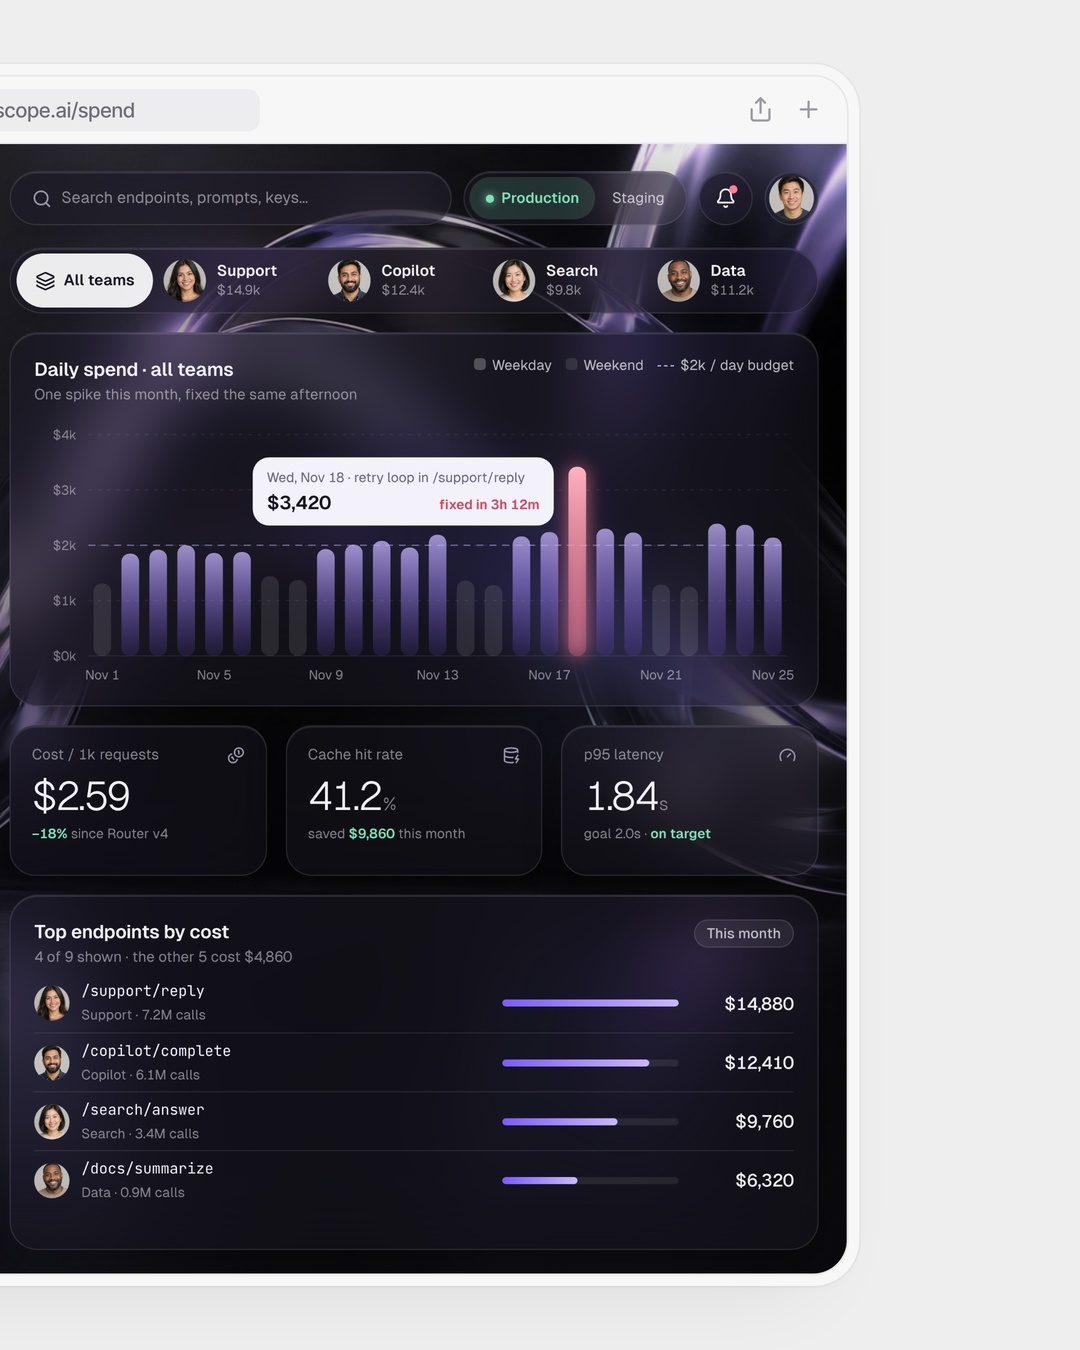
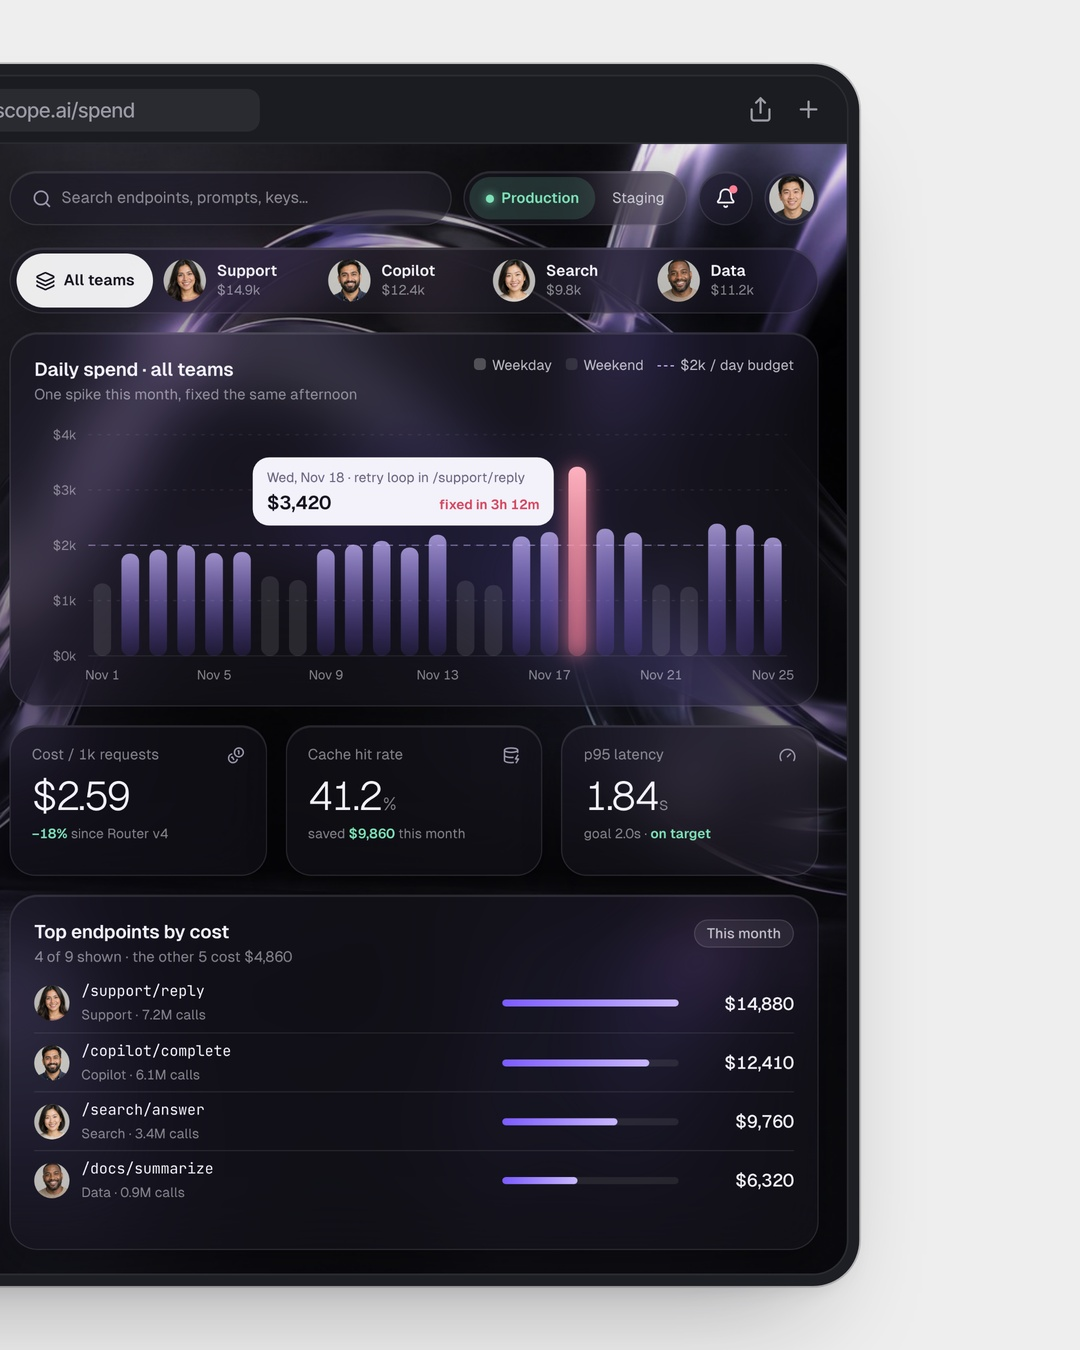
Dark browser mockup on the light studio; re-render the 3 dark dashboards
Claude-Session: https://claude.ai/code/session_01Rx7czzT9PpRg1HyNHJDzdx

Changed region(s): [[0.0, 0.0311, 0.7944, 0.9956]]

diff --git a/tools/render.py b/tools/render.py
@@ -103,6 +103,15 @@ html,body,.stage{background:#101114}
 .bar{background:#1B1C21;border-bottom:1px solid #26272D}
 .url span{background:#25262C;color:#8E8F99}
 """
+# Owner, 2026-11-24: dark browser mockup (window frame + address bar) on the light #EEEEEE studio. FRAME=light restores the old white window.
+DARK_FRAME = _os.environ.get('FRAME', 'dark') == 'dark'
+if DARK_FRAME and not DARK:
+    STAGE_CSS += """
+.frame{background:#1E1F24;box-shadow:0 0 0 1px rgba(0,0,0,.18),0 34px 60px -30px rgba(20,20,30,.38),0 6px 14px -8px rgba(20,20,30,.18)}
+.inner{background:#16171B;box-shadow:0 0 0 1px rgba(255,255,255,.06)}
+.bar{background:#1B1C21;border-bottom:1px solid #2A2B31}
+.url span{background:#2A2B31;color:#9A9BA5}
+"""
 LOCK = '<svg width="10" height="10" viewBox="0 0 24 24" fill="none" stroke="#8C8C96" stroke-width="2.6" stroke-linecap="round"><rect x="4" y="11" width="16" height="10" rx="2"/><path d="M8 11V7a4 4 0 0 1 8 0v4"/></svg>'
 BAR_ICONS = ('<svg width="15" height="15" viewBox="0 0 24 24" fill="none" stroke="#9A9AA3" stroke-width="2" stroke-linecap="round" stroke-linejoin="round"><path d="M4 12v8a2 2 0 0 0 2 2h12a2 2 0 0 0 2-2v-8"/><polyline points="16 6 12 2 8 6"/><line x1="12" x2="12" y1="2" y2="15"/></svg>'
              '<svg width="15" height="15" viewBox="0 0 24 24" fill="none" stroke="#9A9AA3" stroke-width="2" stroke-linecap="round"><path d="M5 12h14"/><path d="M12 5v14"/></svg>')

diff --git a/PLAYBOOK.md b/PLAYBOOK.md
@@ -20,6 +20,8 @@ Do not edit `tools/render.py` or the mockup assets unless the owner asks.
   bright accents that read well on dark. Keep contrast readable (body text at least #B0B0B0-ish on the dark surface).
 - **Studio background stays light #EEEEEE (owner, 2026-11-24):** he tried a dark studio background and rejected it. Only the UI inside the
   window/phone is dark; never render with `STAGE=dark`.
+- **Dark browser mockup (owner, 2026-11-24):** the dashboard/website browser window (frame + address bar) is dark on the #EEEEEE studio.
+  This is the default in tools/render.py (`FRAME=light` brings back the old white window; do not use it unless the owner asks).
 - Unchanged: the locked carousel formats, the #EEEEEE studio background, the mockups (phone, browser window), the brand chrome and the fixed CTA slide.
 - Light designs already made for later slots are kept for history (`light_design_dir` in calendar.json); those slots are `planned`
   again and must be redesigned dark (same niche and brand; their photos can be reused).
